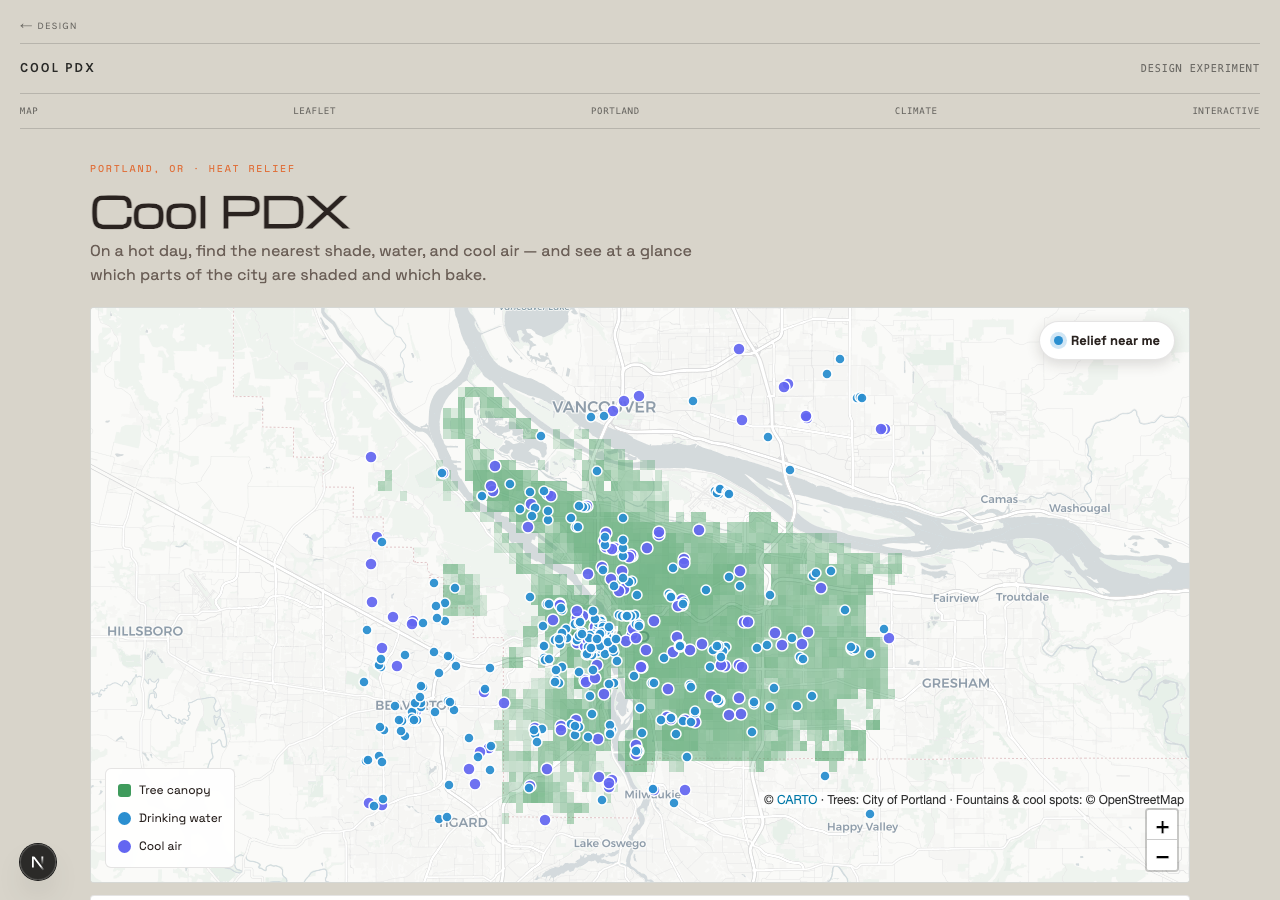
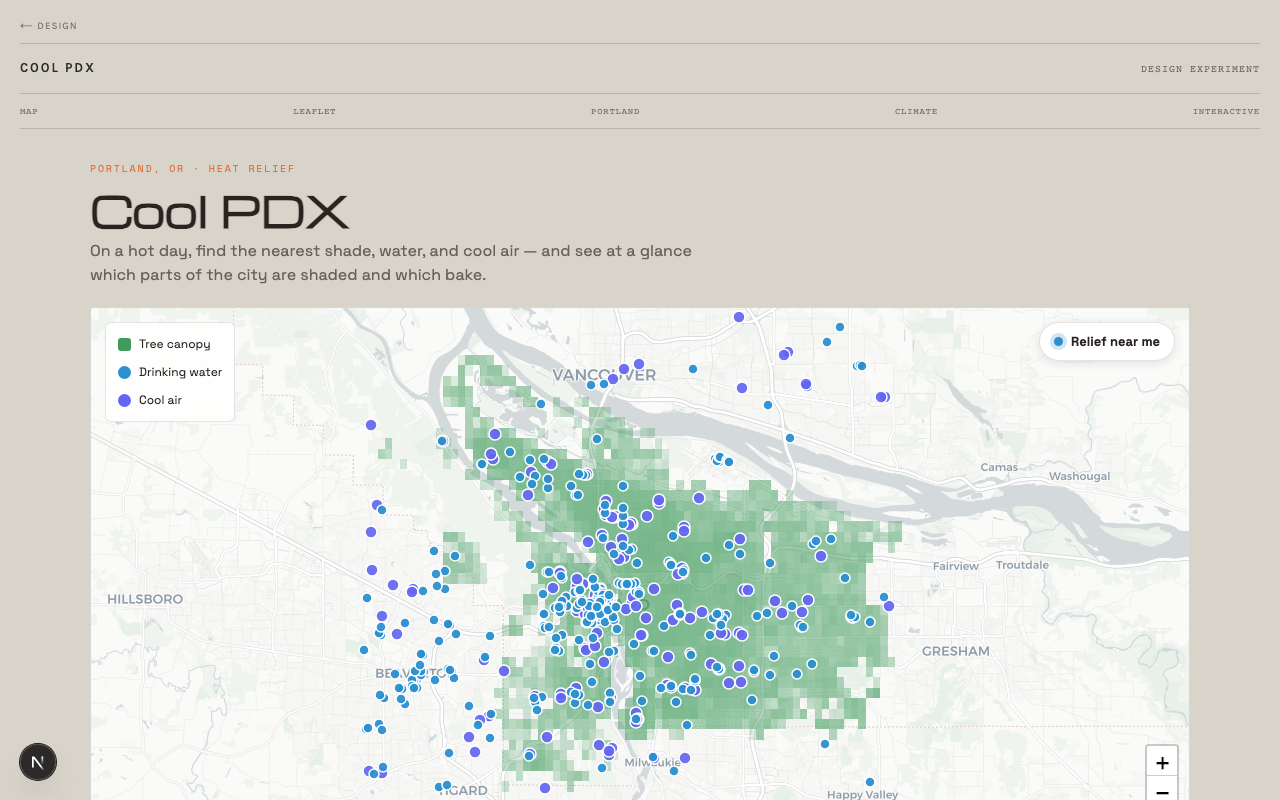
Cool PDX: clearer relief card, fix attribution overlap, add directions CTA
- Relief card centered on the bottom, two-column layout with benefit-first eyebrows
  (Cold water / Cool air · AC), walk-time estimates, gradient accent + texture
- Per-spot 'Directions ↗' link opens maps — the call-to-action to actually get there
- Trim in-map attribution to the license minimum and move it bottom-left so it no
  longer runs through the card (full credits remain in the source line below the map)
- Move layer toggles to top-left to clear the attribution; refresh gallery screenshot

diff --git a/app/design-experiments/(experiments)/cool-pdx/styles.module.css b/app/design-experiments/(experiments)/cool-pdx/styles.module.css
@@ -134,7 +134,7 @@
   position: absolute;
   z-index: 500;
   left: 14px;
-  bottom: 14px;
+  top: 14px;
   display: flex;
   flex-direction: column;
   gap: 6px;
@@ -211,32 +211,60 @@
 
 /* ---- Relief card ---- */
 
+@keyframes riseCenter {
+  from { opacity: 0; transform: translate(-50%, 12px); }
+  to { opacity: 1; transform: translate(-50%, 0); }
+}
+
 .reliefCard {
   position: absolute;
   z-index: 500;
-  right: 14px;
-  bottom: 14px;
-  width: min(280px, calc(100% - 28px));
-  padding: 14px 16px;
+  left: 50%;
+  bottom: 18px;
+  transform: translateX(-50%);
+  width: min(440px, calc(100% - 92px));
   border: 1px solid var(--rule);
-  border-radius: 8px;
+  border-radius: 12px;
   background: var(--surface);
-  box-shadow: 0 6px 24px rgba(42, 35, 32, 0.16);
-  animation: rise 0.3s ease both;
+  box-shadow: 0 12px 38px rgba(42, 35, 32, 0.24);
+  overflow: hidden;
+  animation: riseCenter 0.32s ease both;
+}
+
+@media (max-width: 620px) {
+  .reliefCard {
+    width: calc(100% - 24px);
+    bottom: 12px;
+  }
+}
+
+.reliefAccent {
+  height: 4px;
+  background: linear-gradient(to right, var(--water), var(--cool));
 }
 
 .reliefHead {
   display: flex;
-  align-items: center;
+  align-items: flex-start;
   justify-content: space-between;
-  margin-bottom: 10px;
+  gap: 8px;
+  padding: 12px 16px 11px;
+  border-bottom: 1px solid var(--rule);
+  background: linear-gradient(180deg, rgba(99, 102, 241, 0.05), transparent);
 }
 
 .reliefTitle {
   font-family: var(--font-space-grotesk, 'Space Grotesk', sans-serif);
-  font-size: 13px;
+  font-size: 14px;
   font-weight: 700;
   color: var(--ink);
+}
+
+.reliefSub {
+  font-family: var(--font-space-grotesk, 'Space Grotesk', sans-serif);
+  font-size: 11.5px;
+  color: var(--ink-faint);
+  margin-top: 1px;
 }
 
 .reliefClose {
@@ -244,43 +272,88 @@
   background: none;
   color: var(--ink-faint);
   cursor: pointer;
-  font-size: 16px;
+  font-size: 18px;
   line-height: 1;
   padding: 2px;
+  flex-shrink: 0;
+}
+
+.reliefClose:hover {
+  color: var(--ink);
+}
+
+.reliefRows {
+  display: grid;
+  grid-template-columns: 1fr 1fr;
 }
 
 .reliefRow {
-  display: flex;
-  align-items: flex-start;
-  gap: 10px;
-  padding: 8px 0;
+  padding: 12px 14px 13px;
+  border-left: 3px solid transparent;
 }
 
 .reliefRow + .reliefRow {
-  border-top: 1px solid var(--rule);
+  border-left-width: 3px;
+  box-shadow: inset 1px 0 0 var(--rule);
+}
+
+@media (max-width: 460px) {
+  .reliefRows {
+    grid-template-columns: 1fr;
+  }
+  .reliefRow + .reliefRow {
+    box-shadow: none;
+    border-top: 1px solid var(--rule);
+  }
+}
+
+.reliefEyebrow {
+  display: inline-flex;
+  align-items: center;
+  gap: 6px;
+  font-family: var(--font-space-mono, ui-monospace, monospace);
+  font-size: 9.5px;
+  letter-spacing: 0.11em;
+  text-transform: uppercase;
+  font-weight: 600;
+  margin-bottom: 6px;
 }
 
 .reliefIcon {
-  width: 11px;
-  height: 11px;
+  width: 9px;
+  height: 9px;
   border-radius: 50%;
-  margin-top: 3px;
   flex-shrink: 0;
 }
 
 .reliefName {
   font-family: var(--font-space-grotesk, 'Space Grotesk', sans-serif);
-  font-size: 13px;
+  font-size: 14px;
   font-weight: 600;
   color: var(--ink);
-  line-height: 1.3;
+  line-height: 1.25;
 }
 
 .reliefMeta {
   font-family: var(--font-space-mono, ui-monospace, monospace);
-  font-size: 11px;
+  font-size: 10.5px;
   color: var(--ink-faint);
-  margin-top: 1px;
+  margin-top: 3px;
+  line-height: 1.45;
+}
+
+.reliefDirections {
+  display: inline-block;
+  margin-top: 9px;
+  font-family: var(--font-space-grotesk, 'Space Grotesk', sans-serif);
+  font-size: 12px;
+  font-weight: 600;
+  text-decoration: none;
+  border-bottom: 1px solid transparent;
+}
+
+.reliefDirections:hover {
+  border-bottom-color: currentColor;
 }
 
 .reliefEmpty {

diff --git a/app/design-experiments/(experiments)/cool-pdx/components/ReliefCard.tsx b/app/design-experiments/(experiments)/cool-pdx/components/ReliefCard.tsx
@@ -9,21 +9,49 @@ type Props = {
 }
 
 function fmtDist(m: number): string {
-  if (m < 1000) return `${Math.round(m / 10) * 10} m away`
-  return `${(m / 1000).toFixed(1)} km away`
+  if (m < 1000) return `${Math.round(m / 10) * 10} m`
+  return `${(m / 1000).toFixed(1)} km`
 }
 
-function Row({ spot, color }: { spot: NearestSpot | null; color: string }) {
+// ~80 m/min is a relaxed walking pace.
+function walkMin(m: number): number {
+  return Math.max(1, Math.round(m / 80))
+}
+
+function directionsUrl(coord: [number, number]): string {
+  return `https://www.google.com/maps/dir/?api=1&destination=${coord[0]},${coord[1]}`
+}
+
+function Row({
+  spot,
+  eyebrow,
+  color,
+}: {
+  spot: NearestSpot | null
+  eyebrow: string
+  color: string
+}) {
   if (!spot) return null
   return (
-    <div className={styles.reliefRow}>
-      <span className={styles.reliefIcon} style={{ background: color }} />
-      <div>
-        <div className={styles.reliefName}>{spot.label}</div>
-        <div className={styles.reliefMeta}>
-          {spot.sub} · {fmtDist(spot.distM)}
-        </div>
+    <div className={styles.reliefRow} style={{ borderLeftColor: color }}>
+      <div className={styles.reliefEyebrow} style={{ color }}>
+        <span className={styles.reliefIcon} style={{ background: color }} />
+        {eyebrow}
       </div>
+      <div className={styles.reliefName}>{spot.label}</div>
+      <div className={styles.reliefMeta}>
+        {spot.sub && spot.sub !== spot.label ? `${spot.sub} · ` : ''}
+        {fmtDist(spot.distM)} · ~{walkMin(spot.distM)} min walk
+      </div>
+      <a
+        className={styles.reliefDirections}
+        href={directionsUrl(spot.coord)}
+        target="_blank"
+        rel="noopener noreferrer"
+        style={{ color }}
+      >
+        Directions ↗
+      </a>
     </div>
   )
 }
@@ -32,19 +60,25 @@ export default function ReliefCard({ nearest, onClose }: Props) {
   const hasAny = nearest.fountain || nearest.cooling
   return (
     <div className={styles.reliefCard}>
+      <div className={styles.reliefAccent} />
       <div className={styles.reliefHead}>
-        <span className={styles.reliefTitle}>Nearest relief</span>
+        <div>
+          <div className={styles.reliefTitle}>Nearest relief</div>
+          <div className={styles.reliefSub}>Closest places to cool down right now</div>
+        </div>
         <button type="button" className={styles.reliefClose} onClick={onClose} aria-label="Close">
           ×
         </button>
       </div>
       {hasAny ? (
-        <>
-          <Row spot={nearest.fountain} color="#2b8fd0" />
-          <Row spot={nearest.cooling} color="#6366f1" />
-        </>
+        <div className={styles.reliefRows}>
+          <Row spot={nearest.fountain} eyebrow="Cold water" color="#2b8fd0" />
+          <Row spot={nearest.cooling} eyebrow="Cool air · AC" color="#6366f1" />
+        </div>
       ) : (
-        <p className={styles.reliefEmpty}>No mapped relief found nearby. Try panning the map.</p>
+        <p className={styles.reliefEmpty} style={{ padding: '12px 16px' }}>
+          No mapped relief found nearby. Try panning the map.
+        </p>
       )}
     </div>
   )

diff --git a/app/design-experiments/(experiments)/cool-pdx/components/MapView.tsx b/app/design-experiments/(experiments)/cool-pdx/components/MapView.tsx
@@ -62,11 +62,13 @@ export default function MapView({
       map.fitBounds(PORTLAND_BOUNDS)
 
       L.control.zoom({ position: 'bottomright' }).addTo(map)
+      // Keep the in-map credit to the license minimum; full data-source credits
+      // (incl. City of Portland trees) live in the page's source line under the map.
       L.control
-        .attribution({ position: 'bottomright', prefix: false })
+        .attribution({ position: 'bottomleft', prefix: false })
         .addAttribution(
-          '© <a href="https://carto.com" target="_blank" rel="noopener">CARTO</a> · ' +
-            'Trees: City of Portland · Fountains & cool spots: © OpenStreetMap',
+          '© <a href="https://www.openstreetmap.org/copyright" target="_blank" rel="noopener">OpenStreetMap</a> · ' +
+            '© <a href="https://carto.com" target="_blank" rel="noopener">CARTO</a>',
         )
         .addTo(map)
 